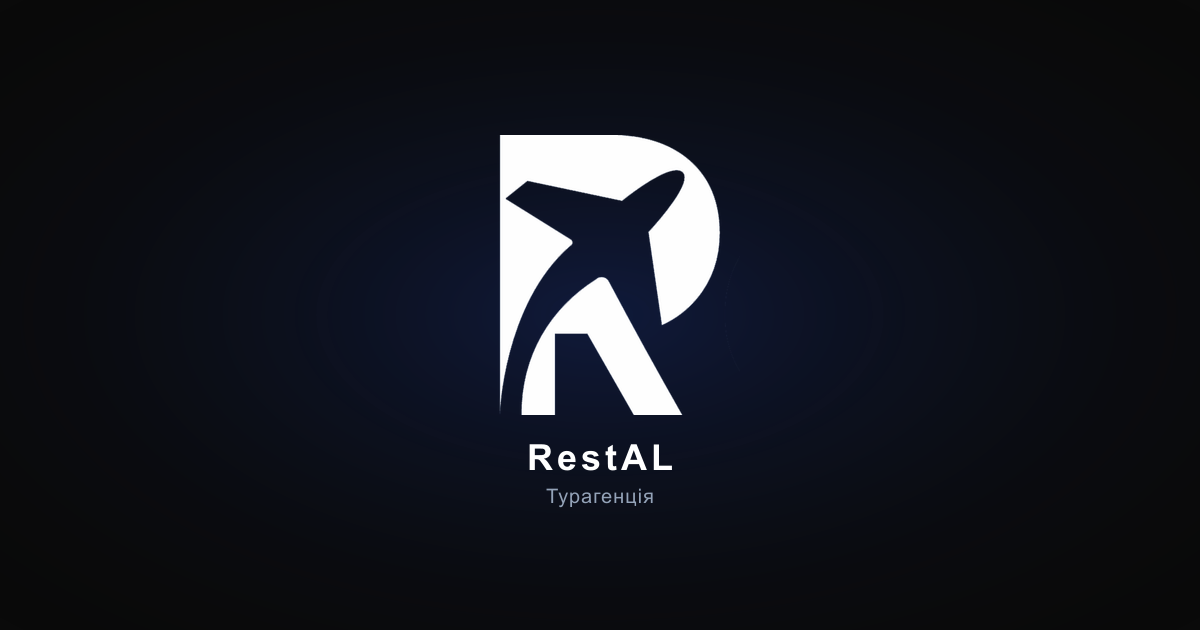
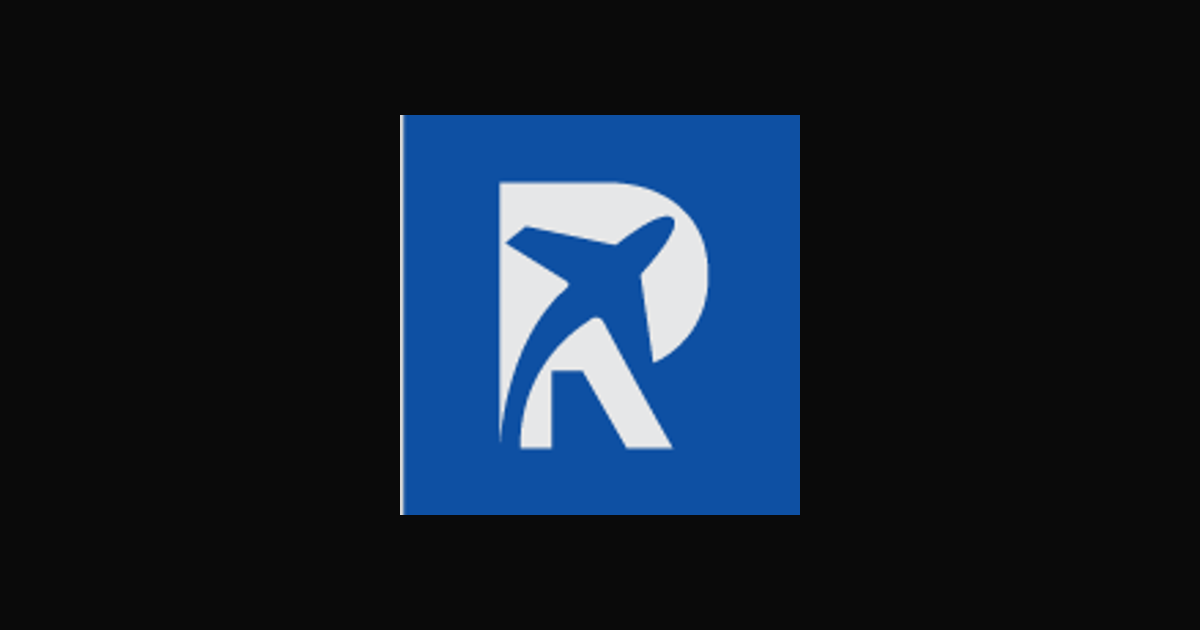
feat: update Open Graph images and remove deprecated image references

Changed region(s): [[0.2775, 0.181, 0.7092, 0.8444]]

diff --git a/app/layout.tsx b/app/layout.tsx
@@ -41,21 +41,12 @@ export const metadata: Metadata = {
     title: "Турагенція RestAL — Експертне планування вашого відпочинку",
     description:
       "Перетворюємо мрії про подорожі на реальність. Ваш комфорт — наш пріоритет. Повний супровід 24/7, глибока експертиза в напрямках та увага до кожної деталі вашої відпустки. Забронюйте тур онлайн!",
-    images: [
-      {
-        url: "/og-image.png",
-        width: 1200,
-        height: 630,
-        alt: "RestAL — Турагенція",
-      },
-    ],
   },
   twitter: {
-    card: "summary_large_image",
+    card: "summary",
     title: "Турагенція RestAL — Експертне планування вашого відпочинку",
     description:
       "Перетворюємо мрії про подорожі на реальність. Ваш комфорт — наш пріоритет. Повний супровід 24/7, глибока експертиза в напрямках та увага до кожної деталі вашої відпустки. Забронюйте тур онлайн!",
-    images: ["/og-image.png"],
   },
   robots: {
     index: true,
@@ -69,12 +60,7 @@ export const metadata: Metadata = {
     },
   },
   icons: {
-    icon: [
-      { url: "/favicon-32x32.png", sizes: "32x32", type: "image/png" },
-      { url: "/favicon-16x16.png", sizes: "16x16", type: "image/png" },
-      { url: "/icon-512.png", sizes: "512x512", type: "image/png" },
-    ],
-    apple: "/apple-touch-icon.png",
+    apple: "/icons/icon-192x192.png",
   },
   manifest: "/manifest.json",
   other: {

diff --git a/app/search/layout.tsx b/app/search/layout.tsx
@@ -8,7 +8,6 @@ export const metadata: Metadata = {
     title: "ШІ Пошук турів | RestAL",
     description:
       "Знайдіть ідеальний тур за допомогою штучного інтелекту. Розумний підбір подорожей за вашими побажаннями.",
-    images: ["/og-image.png"],
   },
 };
 

diff --git a/app/managers/layout.tsx b/app/managers/layout.tsx
@@ -8,7 +8,6 @@ export const metadata: Metadata = {
     title: "Наші менеджери | RestAL",
     description:
       "Познайомтесь з командою досвідчених менеджерів RestAL. Оберіть свого персонального консультанта.",
-    images: ["/og-image.png"],
   },
 };
 

diff --git a/app/tour-screener/layout.tsx b/app/tour-screener/layout.tsx
@@ -8,7 +8,6 @@ export const metadata: Metadata = {
     title: "Підбір туру | RestAL",
     description:
       "Підберіть ідеальний тур онлайн. Пошук серед тисяч пропозицій з найкращими цінами.",
-    images: ["/og-image.png"],
   },
 };
 

diff --git a/app/cashback/layout.tsx b/app/cashback/layout.tsx
@@ -8,7 +8,6 @@ export const metadata: Metadata = {
     title: "Cashback програма | RestAL",
     description:
       "Отримуйте кешбек за кожну подорож з RestAL. Накопичуйте бонуси та заощаджуйте.",
-    images: ["/og-image.png"],
   },
 };
 

diff --git a/app/contact/layout.tsx b/app/contact/layout.tsx
@@ -8,7 +8,6 @@ export const metadata: Metadata = {
     title: "Контакти | RestAL",
     description:
       "Зв'яжіться з турагенцією RestAL — телефон, email, месенджери. Ми на зв'язку 24/7.",
-    images: ["/og-image.png"],
   },
 };
 
